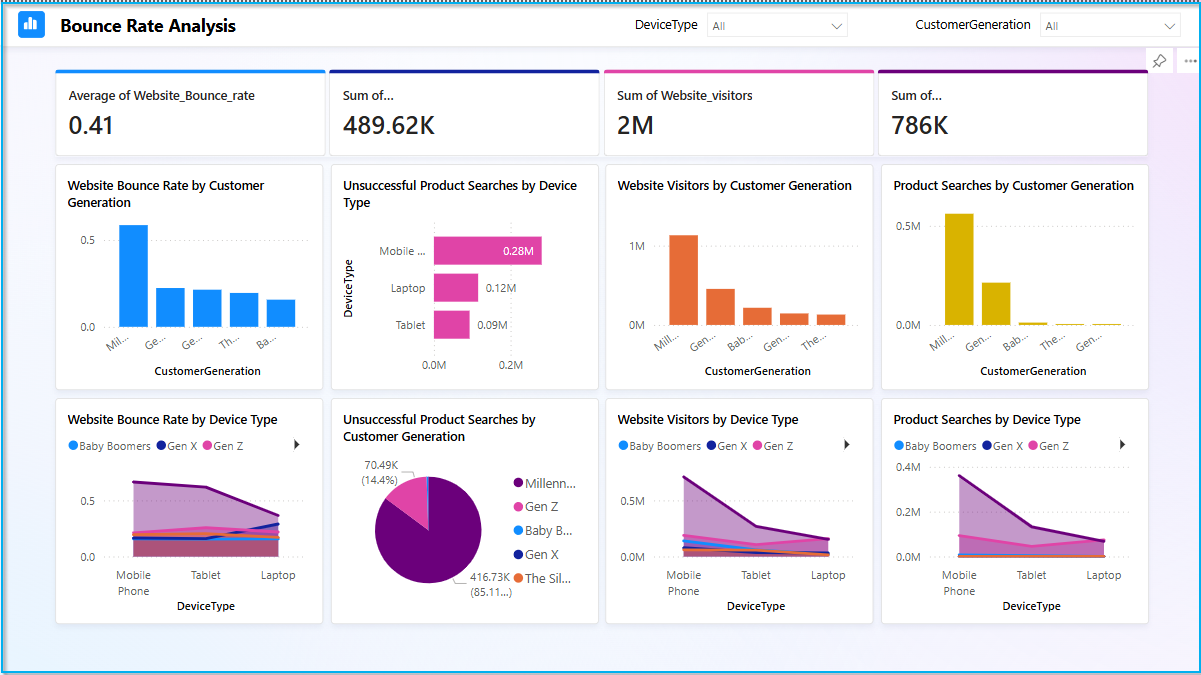
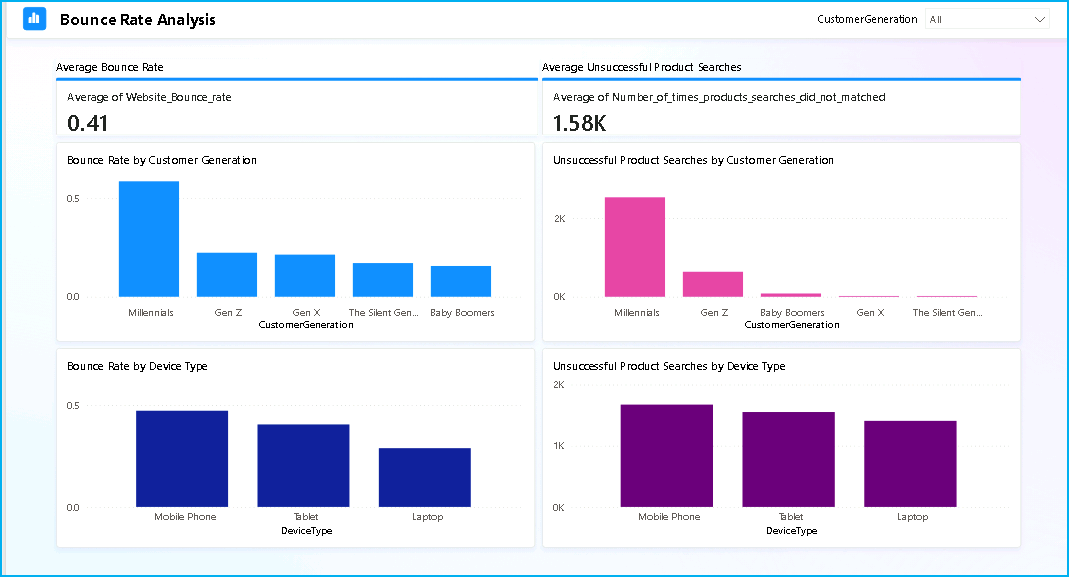
update

diff --git a/Exercise3.md b/Exercise3.md
@@ -119,7 +119,7 @@ The first option, 'What’s in my data?' provides an overview of the contents of
 18. Click in the **Copilot chat** box field and enter the **prompt** below.
 
     ```
-    Create a report Bounce Rate analysis, to show the correlation between customer sentiment, particularly among millennials and Gen Z, unsuccessful product searches across different devices, and the website's bounce rate by customer generations.  
+    Create a Bounce Rate Analysis report that highlights the correlation between customer sentiment—especially among Millennials and Gen Z—unsuccessful product searches across different devices, and the website's bounce rate segmented by customer generation. Based on the results and data in the report, do you have any recommendations for improving the high bounce rate observed among the Millennial customer segments?  
     ```
     >**Note:** Wait for the prompt to populate.
 
